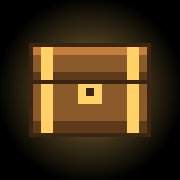
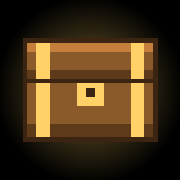
moving to dev server

Changed region(s): [[0.1111, 0.1944, 0.8889, 0.8056]]

diff --git a/index.html b/index.html
@@ -4,8 +4,11 @@
   <meta charset="UTF-8">
   <meta name="viewport" content="width=device-width, initial-scale=1.0">
   <title>Quest Log // HUD</title>
-  <!-- App icon: the treasure chest (icons/). Tiny, and loaded after the page. -->
-  <link rel="icon" href="icons/icon.svg" type="image/svg+xml">
+  <!-- App icon: the treasure chest. The glasses' app list needs a PNG over
+       52×52 plus a web manifest, both at the app's root (the shape Meta's
+       own web app packager produces). Loaded after the page. -->
+  <link rel="icon" type="image/png" sizes="192x192" href="favicon.png">
+  <link rel="manifest" href="manifest.webmanifest">
   <link rel="apple-touch-icon" href="icons/apple-touch-icon.png">
   <link rel="stylesheet" href="style.css">
 </head>

diff --git a/AGENTS.md b/AGENTS.md
@@ -115,7 +115,8 @@ Still unconfirmed: whether walking resets the stretch timer via
 |---|---|
 | `index.html` | The `#hud` (600×600): header (clock/date/timer badge, gold, streak), `.screen-area` with one `div.screen` per screen, XP bar, hint bar, idle glance, flash overlay. Below it, `.dev-panel` (desktop test buttons, hidden at ≤640px). |
 | `style.css` | Tokens → stage/layout → per-screen sections → XP bar → hints → dev panel → effects → **cosmetics** (chest skins, themes, fonts, shop) → reduced motion. |
-| `icons/` | App icon + logo: the treasure chest in pixel art (wood skin). `icon.svg` is the favicon; `logo.svg` (on black, gold glow) is the source of `apple-touch-icon.png` (180px) and `logo-512.png`. If the chest art changes, update these too. |
+| `favicon.png`, `manifest.webmanifest` | The app icon for the glasses' app list (and browser tabs): a 192px PNG of the chest plus a web manifest (name + icons), at the app root. This is the shape Meta's own web-app packager produces (PNG over 52×52 + manifest). Seen on the glasses: an SVG favicon showed a generic chain icon, and without a `"purpose": "maskable"` icon the launcher shrank the icon into a small circle mid-tile. The `startup` test checks all of this. |
+| `icons/` | Icon art, full-bleed black squares (the launcher rounds the corners): `icon.svg` (chest ≈ 88% wide) → `favicon.png` + `icon-512.png`; `icon-maskable.svg` (chest ≈ 75%, safe for any crop) → `maskable-192/512.png` + `apple-touch-icon.png`. `logo.svg` (rounded, glowing) → `logo-512.png` for the README. If the chest art changes, re-render these. |
 | `fonts/` | Bundled `.woff2` fonts for the shop (Latin subset) and their licences (OFL / Apache). They're only downloaded when used. |
 | `js/` | All logic, split by job into plain scripts (below). |
 

diff --git a/ROADMAP.md b/ROADMAP.md
@@ -71,6 +71,12 @@ anything time-based.
       items (64 in all), gamble items with win / lose lines, and a sarcastic
       AI ("the gremlin", 👾) that comments on completions, chests, level ups,
       the all-clear screen and alerts. AI sass setting: Off / Some / Lots.
+- [x] **App icon in the glasses' app list** (2026-09-28): the SVG favicon
+      showed a chain icon; a PNG `favicon.png` + `manifest.webmanifest` (like
+      Meta's packager makes) fixed it.
+- [ ] **App icon fills the tile:** it showed as a small circle mid-tile with
+      lots of dead space. Now tighter icons + `"purpose": "maskable"` ones.
+      Check after deploying (remove and re-add the app if the old icon sticks).
 - [ ] **Test the gremlin + new loot on the glasses:** that 👾 lines are
       readable (19px italic purple) and the complete screen stays up long
       enough to read one, and that the new emoji render (🥄 🧀 📎 🍝 🕯 🦷

diff --git a/README.md b/README.md
@@ -206,7 +206,8 @@ CLAUDE.md    Points Claude Code at AGENTS.md
 ROADMAP.md   What's next, known limits, ideas
 tests/       Automated tests: node tests/run.mjs
 fonts/       Bundled shop fonts (.woff2) + their open licences
-icons/       App icon + logo: the treasure chest (favicon, home screen, README)
+icons/       Logo art: the treasure chest (home screen icon, README logo)
+favicon.png  The app icon in the glasses' app list (with manifest.webmanifest)
 ```
 
 ### Common tweaks
